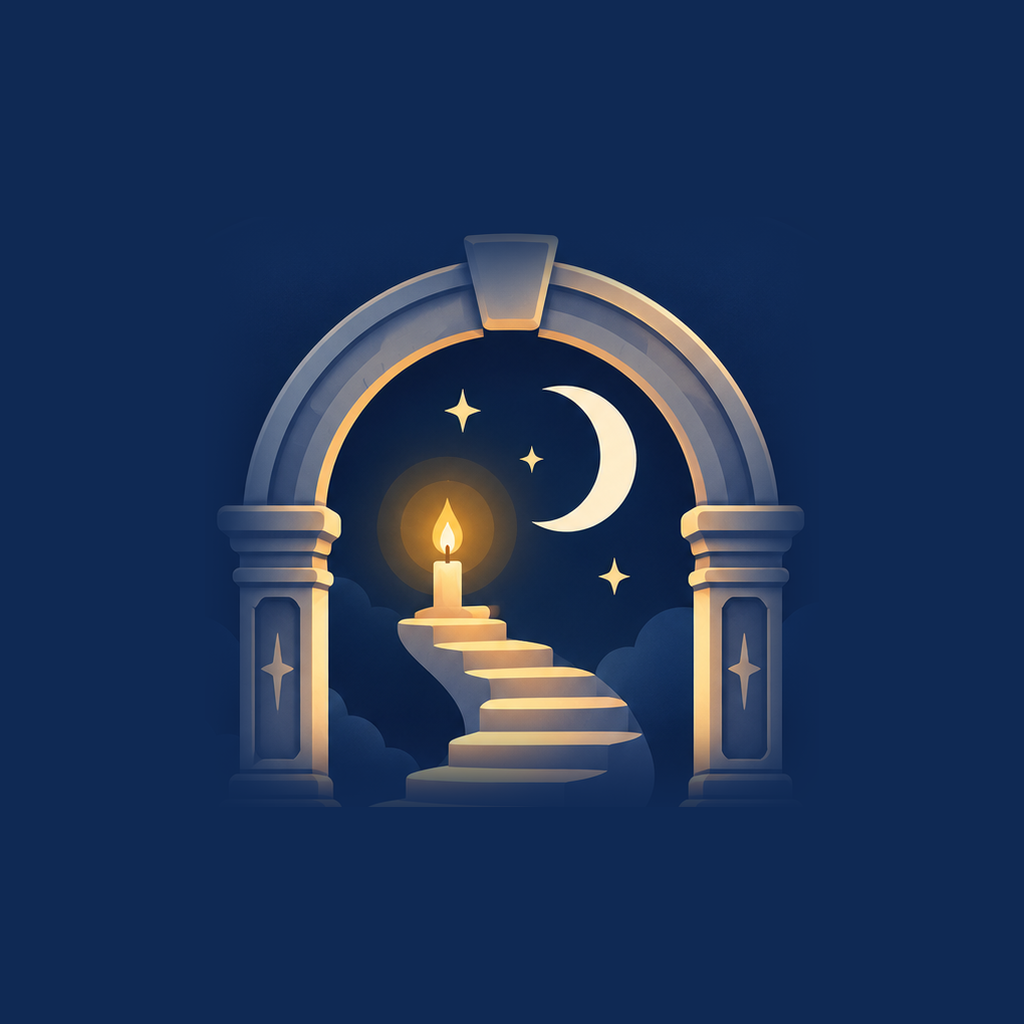
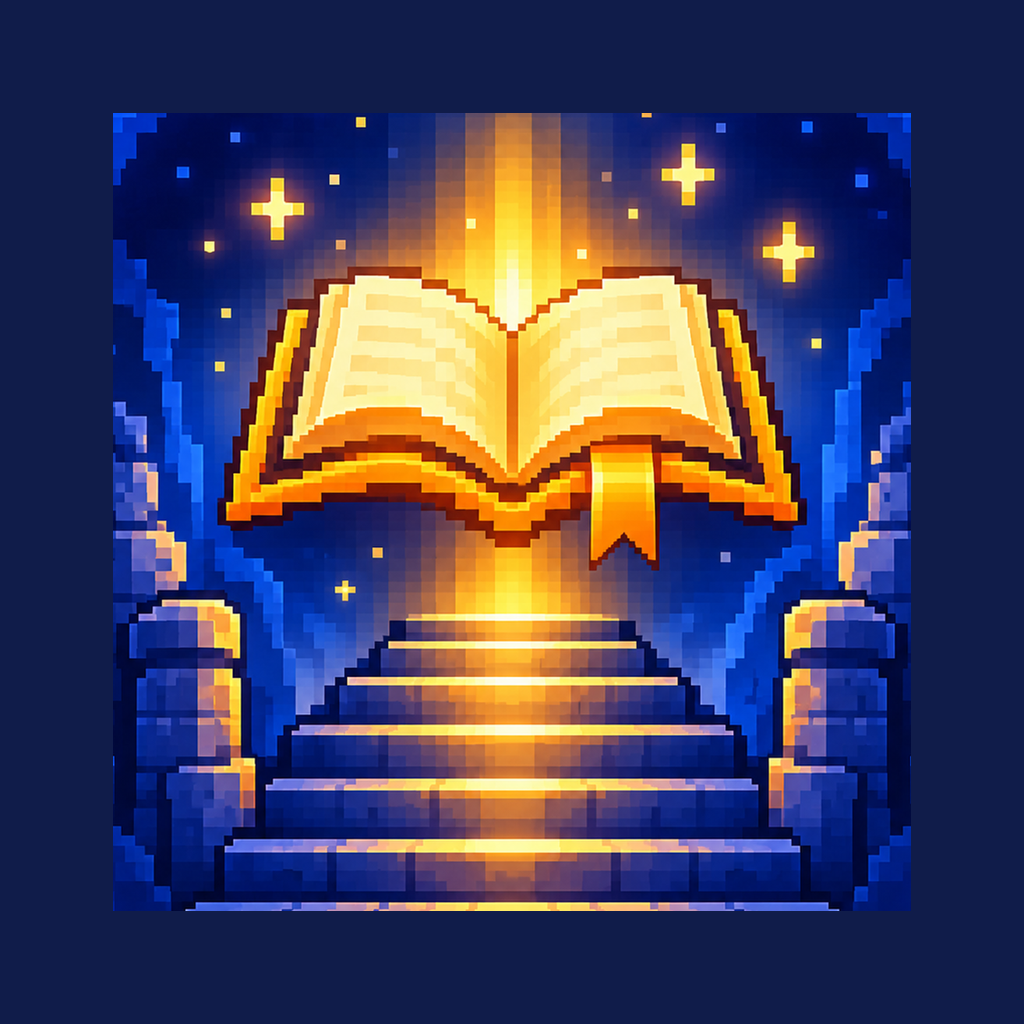
Daily 1.9.1: ícono nuevo (libro) y margen superior en iPhone PWA
Claude-Session: https://claude.ai/code/session_018K2oLYSpPtdcPdEUVYj7Hk

diff --git a/js/app.js b/js/app.js
@@ -15,7 +15,7 @@ import { SANTOS_MAS, tipoSanto, oracionSanto } from "../data/santos.js";
 import { SANTORAL } from "../data/santoral.js";
 import * as PJ from "./personaje.js";
 
-export const VERSION="1.9";
+export const VERSION="1.9.1";
 const LOGO_GOOGLE='<svg class="logo-g" viewBox="0 0 48 48" aria-hidden="true"><path fill="#EA4335" d="M24 9.5c3.54 0 6.71 1.22 9.21 3.6l6.85-6.85C35.9 2.38 30.47 0 24 0 14.62 0 6.51 5.38 2.56 13.22l7.98 6.19C12.43 13.72 17.74 9.5 24 9.5z"/><path fill="#4285F4" d="M46.98 24.55c0-1.57-.15-3.09-.38-4.55H24v9.02h12.94c-.58 2.96-2.26 5.48-4.78 7.18l7.73 6c4.51-4.18 7.09-10.36 7.09-17.65z"/><path fill="#FBBC05" d="M10.53 28.59c-.48-1.45-.76-2.99-.76-4.59s.27-3.14.76-4.59l-7.98-6.19C.92 16.46 0 20.12 0 24c0 3.88.92 7.54 2.56 10.78l7.97-6.19z"/><path fill="#34A853" d="M24 48c6.48 0 11.93-2.13 15.89-5.81l-7.73-6c-2.15 1.45-4.92 2.3-8.16 2.3-6.26 0-11.57-4.22-13.47-9.91l-7.98 6.19C6.51 42.62 14.62 48 24 48z"/></svg>';
 const LOGO_APPLE='<svg class="logo-a" viewBox="0 0 814 1000" aria-hidden="true"><path fill="currentColor" d="M788.1 340.9c-5.8 4.5-108.2 62.2-108.2 190.5 0 148.4 130.3 200.9 134.2 202.2-.6 3.2-20.7 71.9-68.7 141.9-42.8 61.6-87.5 123.1-155.5 123.1s-85.5-39.5-164-39.5c-76.5 0-103.7 40.8-165.9 40.8s-105.6-57-155.5-127C46.7 790.7 0 663 0 541.8c0-194.4 126.4-297.5 250.8-297.5 66.1 0 121.2 43.4 162.7 43.4 39.5 0 101.1-46 176.3-46 28.5 0 130.9 2.6 198.3 99.2zm-234-181.5c31.1-36.9 53.1-88.1 53.1-139.3 0-7.1-.6-14.3-1.9-20.1-50.6 1.9-110.8 33.7-147.1 75.8-28.5 32.4-55.1 83.6-55.1 135.5 0 7.8 1.3 15.6 1.9 18.1 3.2.6 8.4 1.3 13.6 1.3 45.4 0 102.5-30.4 135.5-71.3z"/></svg>';
 /* la dirección publicada: la app de las tiendas lee de acá los Evangelios del día (los genera la GitHub Action cada noche) */
@@ -1294,5 +1294,7 @@ try{ const inv=new URLSearchParams(location.search).get("grupo"); if(inv){ lsSet
 let invitado=false; try{ invitado=localStorage.getItem("daily_invitado")==="1"; }catch(e){}
 if(invitado){ startSession({uid:"local",displayName:""},true); }
 finishRedirect().then(()=>{ watchAuth(u=>{ if(u){ try{ localStorage.removeItem("daily_invitado"); }catch(e){} startSession(u,false); } else if(!invitado&&!(backend&&backend.mode==="local")){ endSession(); } }); }).catch(()=>{});
+/* iPhone instalado desde Safari: la barra de estado tapa la fecha si env(safe-area-inset-top) todavía vale 0 al arrancar */
+try{ if(navigator.standalone&&/iPhone|iPad/.test(navigator.userAgent)) document.body.classList.add("ios-pwa"); }catch(e){}
 /* para las pruebas */
 window.DAILY={get:()=>({view,sheet,days,profile,rosario,intents,propositos,novenas,evHoy,backend:backend&&backend.mode,grupo}),ACC,openSheet,closeSheet,render,tiempoLit,ir:irA,grupoBE:()=>grupoBE,miFicha};

diff --git a/sw.js b/sw.js
@@ -1,6 +1,6 @@
 // Service worker: la app funciona sin señal. El índice se busca primero en la red (para recibir versiones nuevas) y cae al caché.
 // Los Evangelios (evangelio/*.json) y las Horas se guardan al pasar, así quedan los días ya vistos.
-const VERSION = "scaeli-daily-v19";
+const VERSION = "scaeli-daily-v20";
 const SHELL = ["./", "./index.html", "./css/app.css", "./js/app.js", "./js/firebase.js", "./js/nativo.js", "./vendor/firebase/firebase-app.js", "./vendor/firebase/firebase-auth.js", "./vendor/firebase/firebase-firestore.js", "./privacidad.html", "./terminos.html", "./data/plus.js", "./data/habitos.js", "./data/oraciones_mas.js", "./data/libros.js", "./data/novenas.js", "./data/examen.js", "./data/misa.js", "./data/juego.js", "./data/propio.js", "./data/santos.js", "./data/santoral.js", "./data/santoral-mas.js", "./biblia/indice.json", "./js/personaje.js", "./manifest.webmanifest",
   "./icons/icon-192.png", "./icons/icon-512.png", "./assets/logo-daily.png", "./assets/logo-horizontal.png",
   "./assets/personaje/m.png", "./assets/personaje/f.png", "./assets/personaje/pj.json",

diff --git a/css/app.css b/css/app.css
@@ -814,3 +814,5 @@ body.enfoque{overflow:hidden}
 .msg .sm{opacity:.6}
 .card.grupoc .mnue{color:#F2B544!important;display:inline-flex;align-items:center;gap:5px;margin-top:2px}.card.grupoc .mnue svg.i{width:14px;height:14px;flex:none}.card.grupoc .mnue b{font-size:inherit;font-weight:600}
 .card.grupoc.port .bg.foto,.sbanner img.foto{image-rendering:auto}
+/* 1.9.1 · iPhone como PWA: nunca menos de 44px arriba (barra de estado) aunque el inset llegue tarde */
+body.ios-pwa{padding-top:calc(16px + max(env(safe-area-inset-top,0px),44px))}
